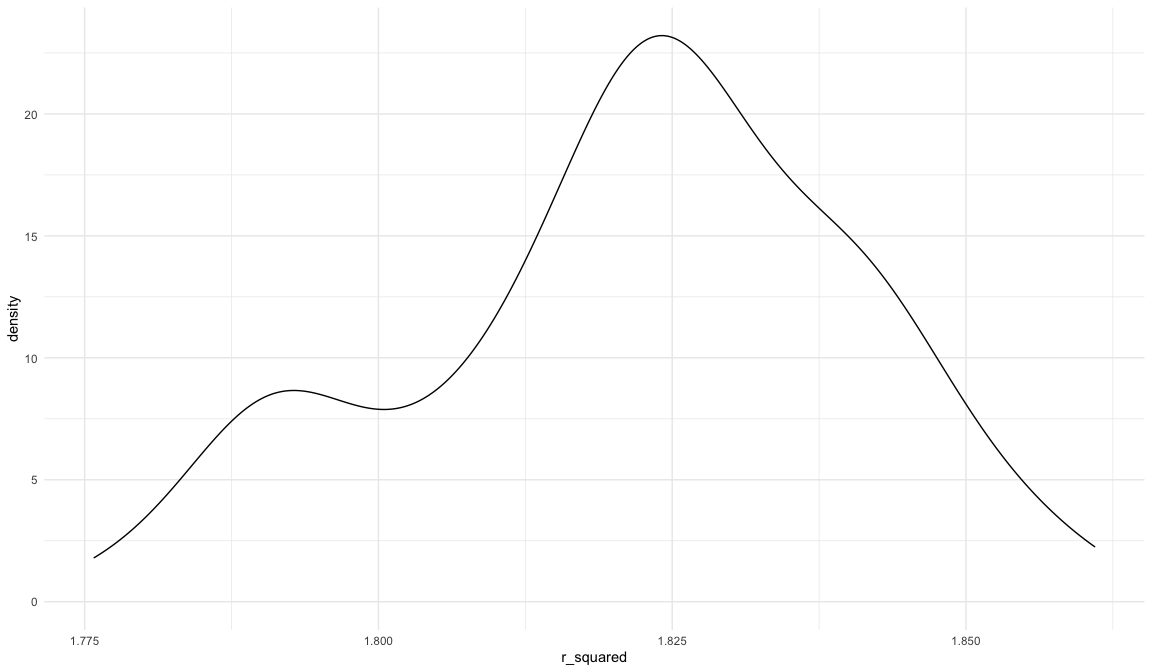
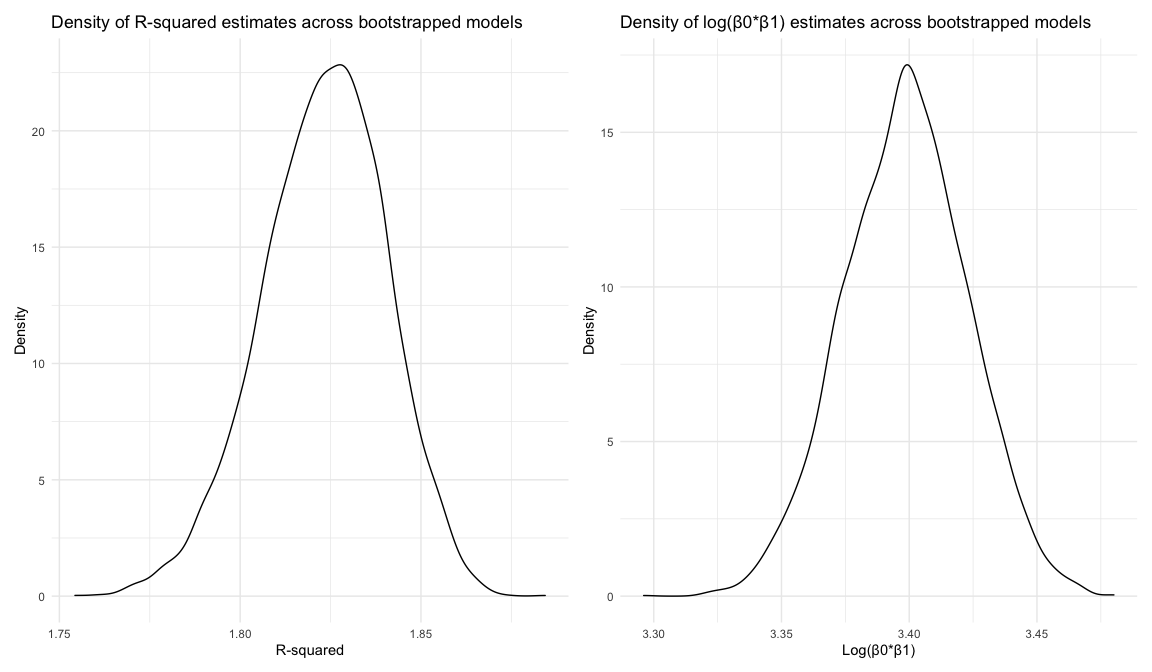
Part 1 completed

diff --git a/p8105_hw6_my2731.md b/p8105_hw6_my2731.md
@@ -26,7 +26,7 @@ and $log(\hat{\beta_0}*\hat{\beta_1})$
 
 ``` r
 weather_bootstrap = weather_df %>% 
-  modelr::bootstrap(n = 100) %>% 
+  modelr::bootstrap(n = 5000) %>% 
   mutate(
     models = map(strap, ~lm(tmax ~ tmin, data = .x)),
     results = map(models, broom::tidy), 
@@ -58,127 +58,43 @@ boot_summary = weather_bootstrap %>%
             cil_rsquared = quantile(r_squared, 0.025), 
             ciu_rsquared = quantile(r_squared, 0.975)) 
 
-boot_summary %>% knitr::kable(digits = 3)
+head(boot_summary) %>% knitr::kable(digits = 3)
 ```
 
-| .id | log_b0b1 | r_squared | cil_log_b0b1 | ciu_log_b0b1 | cil_rsquared | ciu_rsquared |
-|:----|---------:|----------:|-------------:|-------------:|-------------:|-------------:|
-| 001 |    3.438 |     1.791 |        3.438 |        3.438 |        1.791 |        1.791 |
-| 002 |    3.398 |     1.828 |        3.398 |        3.398 |        1.828 |        1.828 |
-| 003 |    3.438 |     1.792 |        3.438 |        3.438 |        1.792 |        1.792 |
-| 004 |    3.427 |     1.805 |        3.427 |        3.427 |        1.805 |        1.805 |
-| 005 |    3.375 |     1.818 |        3.375 |        3.375 |        1.818 |        1.818 |
-| 006 |    3.407 |     1.823 |        3.407 |        3.407 |        1.823 |        1.823 |
-| 007 |    3.409 |     1.811 |        3.409 |        3.409 |        1.811 |        1.811 |
-| 008 |    3.352 |     1.856 |        3.352 |        3.352 |        1.856 |        1.856 |
-| 009 |    3.436 |     1.820 |        3.436 |        3.436 |        1.820 |        1.820 |
-| 010 |    3.424 |     1.847 |        3.424 |        3.424 |        1.847 |        1.847 |
-| 011 |    3.406 |     1.820 |        3.406 |        3.406 |        1.820 |        1.820 |
-| 012 |    3.402 |     1.844 |        3.402 |        3.402 |        1.844 |        1.844 |
-| 013 |    3.465 |     1.787 |        3.465 |        3.465 |        1.787 |        1.787 |
-| 014 |    3.439 |     1.799 |        3.439 |        3.439 |        1.799 |        1.799 |
-| 015 |    3.420 |     1.790 |        3.420 |        3.420 |        1.790 |        1.790 |
-| 016 |    3.430 |     1.834 |        3.430 |        3.430 |        1.834 |        1.834 |
-| 017 |    3.419 |     1.834 |        3.419 |        3.419 |        1.834 |        1.834 |
-| 018 |    3.396 |     1.829 |        3.396 |        3.396 |        1.829 |        1.829 |
-| 019 |    3.416 |     1.822 |        3.416 |        3.416 |        1.822 |        1.822 |
-| 020 |    3.388 |     1.838 |        3.388 |        3.388 |        1.838 |        1.838 |
-| 021 |    3.397 |     1.832 |        3.397 |        3.397 |        1.832 |        1.832 |
-| 022 |    3.362 |     1.839 |        3.362 |        3.362 |        1.839 |        1.839 |
-| 023 |    3.397 |     1.840 |        3.397 |        3.397 |        1.840 |        1.840 |
-| 024 |    3.367 |     1.840 |        3.367 |        3.367 |        1.840 |        1.840 |
-| 025 |    3.387 |     1.821 |        3.387 |        3.387 |        1.821 |        1.821 |
-| 026 |    3.393 |     1.840 |        3.393 |        3.393 |        1.840 |        1.840 |
-| 027 |    3.442 |     1.830 |        3.442 |        3.442 |        1.830 |        1.830 |
-| 028 |    3.374 |     1.845 |        3.374 |        3.374 |        1.845 |        1.845 |
-| 029 |    3.437 |     1.782 |        3.437 |        3.437 |        1.782 |        1.782 |
-| 030 |    3.387 |     1.789 |        3.387 |        3.387 |        1.789 |        1.789 |
-| 031 |    3.432 |     1.823 |        3.432 |        3.432 |        1.823 |        1.823 |
-| 032 |    3.405 |     1.823 |        3.405 |        3.405 |        1.823 |        1.823 |
-| 033 |    3.425 |     1.816 |        3.425 |        3.425 |        1.816 |        1.816 |
-| 034 |    3.384 |     1.807 |        3.384 |        3.384 |        1.807 |        1.807 |
-| 035 |    3.375 |     1.817 |        3.375 |        3.375 |        1.817 |        1.817 |
-| 036 |    3.416 |     1.819 |        3.416 |        3.416 |        1.819 |        1.819 |
-| 037 |    3.396 |     1.826 |        3.396 |        3.396 |        1.826 |        1.826 |
-| 038 |    3.395 |     1.813 |        3.395 |        3.395 |        1.813 |        1.813 |
-| 039 |    3.434 |     1.789 |        3.434 |        3.434 |        1.789 |        1.789 |
-| 040 |    3.367 |     1.824 |        3.367 |        3.367 |        1.824 |        1.824 |
-| 041 |    3.373 |     1.832 |        3.373 |        3.373 |        1.832 |        1.832 |
-| 042 |    3.390 |     1.812 |        3.390 |        3.390 |        1.812 |        1.812 |
-| 043 |    3.415 |     1.829 |        3.415 |        3.415 |        1.829 |        1.829 |
-| 044 |    3.390 |     1.849 |        3.390 |        3.390 |        1.849 |        1.849 |
-| 045 |    3.398 |     1.840 |        3.398 |        3.398 |        1.840 |        1.840 |
-| 046 |    3.375 |     1.825 |        3.375 |        3.375 |        1.825 |        1.825 |
-| 047 |    3.350 |     1.861 |        3.350 |        3.350 |        1.861 |        1.861 |
-| 048 |    3.433 |     1.793 |        3.433 |        3.433 |        1.793 |        1.793 |
-| 049 |    3.392 |     1.823 |        3.392 |        3.392 |        1.823 |        1.823 |
-| 050 |    3.395 |     1.821 |        3.395 |        3.395 |        1.821 |        1.821 |
-| 051 |    3.366 |     1.830 |        3.366 |        3.366 |        1.830 |        1.830 |
-| 052 |    3.371 |     1.855 |        3.371 |        3.371 |        1.855 |        1.855 |
-| 053 |    3.412 |     1.828 |        3.412 |        3.412 |        1.828 |        1.828 |
-| 054 |    3.435 |     1.825 |        3.435 |        3.435 |        1.825 |        1.825 |
-| 055 |    3.408 |     1.819 |        3.408 |        3.408 |        1.819 |        1.819 |
-| 056 |    3.404 |     1.825 |        3.404 |        3.404 |        1.825 |        1.825 |
-| 057 |    3.426 |     1.812 |        3.426 |        3.426 |        1.812 |        1.812 |
-| 058 |    3.395 |     1.822 |        3.395 |        3.395 |        1.822 |        1.822 |
-| 059 |    3.410 |     1.830 |        3.410 |        3.410 |        1.830 |        1.830 |
-| 060 |    3.404 |     1.832 |        3.404 |        3.404 |        1.832 |        1.832 |
-| 061 |    3.392 |     1.831 |        3.392 |        3.392 |        1.831 |        1.831 |
-| 062 |    3.416 |     1.824 |        3.416 |        3.416 |        1.824 |        1.824 |
-| 063 |    3.410 |     1.807 |        3.410 |        3.410 |        1.807 |        1.807 |
-| 064 |    3.402 |     1.820 |        3.402 |        3.402 |        1.820 |        1.820 |
-| 065 |    3.423 |     1.840 |        3.423 |        3.423 |        1.840 |        1.840 |
-| 066 |    3.384 |     1.845 |        3.384 |        3.384 |        1.845 |        1.845 |
-| 067 |    3.433 |     1.814 |        3.433 |        3.433 |        1.814 |        1.814 |
-| 068 |    3.387 |     1.813 |        3.387 |        3.387 |        1.813 |        1.813 |
-| 069 |    3.390 |     1.829 |        3.390 |        3.390 |        1.829 |        1.829 |
-| 070 |    3.389 |     1.796 |        3.389 |        3.389 |        1.796 |        1.796 |
-| 071 |    3.384 |     1.841 |        3.384 |        3.384 |        1.841 |        1.841 |
-| 072 |    3.421 |     1.838 |        3.421 |        3.421 |        1.838 |        1.838 |
-| 073 |    3.367 |     1.842 |        3.367 |        3.367 |        1.842 |        1.842 |
-| 074 |    3.399 |     1.826 |        3.399 |        3.399 |        1.826 |        1.826 |
-| 075 |    3.398 |     1.791 |        3.398 |        3.398 |        1.791 |        1.791 |
-| 076 |    3.398 |     1.851 |        3.398 |        3.398 |        1.851 |        1.851 |
-| 077 |    3.404 |     1.783 |        3.404 |        3.404 |        1.783 |        1.783 |
-| 078 |    3.410 |     1.791 |        3.410 |        3.410 |        1.791 |        1.791 |
-| 079 |    3.371 |     1.776 |        3.371 |        3.371 |        1.776 |        1.776 |
-| 080 |    3.412 |     1.832 |        3.412 |        3.412 |        1.832 |        1.832 |
-| 081 |    3.419 |     1.824 |        3.419 |        3.419 |        1.824 |        1.824 |
-| 082 |    3.429 |     1.802 |        3.429 |        3.429 |        1.802 |        1.802 |
-| 083 |    3.416 |     1.835 |        3.416 |        3.416 |        1.835 |        1.835 |
-| 084 |    3.392 |     1.824 |        3.392 |        3.392 |        1.824 |        1.824 |
-| 085 |    3.364 |     1.811 |        3.364 |        3.364 |        1.811 |        1.811 |
-| 086 |    3.410 |     1.846 |        3.410 |        3.410 |        1.846 |        1.846 |
-| 087 |    3.389 |     1.822 |        3.389 |        3.389 |        1.822 |        1.822 |
-| 088 |    3.430 |     1.808 |        3.430 |        3.430 |        1.808 |        1.808 |
-| 089 |    3.407 |     1.798 |        3.407 |        3.407 |        1.798 |        1.798 |
-| 090 |    3.411 |     1.823 |        3.411 |        3.411 |        1.823 |        1.823 |
-| 091 |    3.396 |     1.841 |        3.396 |        3.396 |        1.841 |        1.841 |
-| 092 |    3.388 |     1.814 |        3.388 |        3.388 |        1.814 |        1.814 |
-| 093 |    3.420 |     1.793 |        3.420 |        3.420 |        1.793 |        1.793 |
-| 094 |    3.380 |     1.798 |        3.380 |        3.380 |        1.798 |        1.798 |
-| 095 |    3.382 |     1.803 |        3.382 |        3.382 |        1.803 |        1.803 |
-| 096 |    3.380 |     1.840 |        3.380 |        3.380 |        1.840 |        1.840 |
-| 097 |    3.400 |     1.825 |        3.400 |        3.400 |        1.825 |        1.825 |
-| 098 |    3.408 |     1.852 |        3.408 |        3.408 |        1.852 |        1.852 |
-| 099 |    3.352 |     1.847 |        3.352 |        3.352 |        1.847 |        1.847 |
-| 100 |    3.363 |     1.818 |        3.363 |        3.363 |        1.818 |        1.818 |
+| .id  | log_b0b1 | r_squared | cil_log_b0b1 | ciu_log_b0b1 | cil_rsquared | ciu_rsquared |
+|:-----|---------:|----------:|-------------:|-------------:|-------------:|-------------:|
+| 0001 |    3.335 |     1.840 |        3.335 |        3.335 |        1.840 |        1.840 |
+| 0002 |    3.438 |     1.825 |        3.438 |        3.438 |        1.825 |        1.825 |
+| 0003 |    3.410 |     1.818 |        3.410 |        3.410 |        1.818 |        1.818 |
+| 0004 |    3.425 |     1.817 |        3.425 |        3.425 |        1.817 |        1.817 |
+| 0005 |    3.424 |     1.831 |        3.424 |        3.424 |        1.831 |        1.831 |
+| 0006 |    3.423 |     1.813 |        3.423 |        3.423 |        1.813 |        1.813 |
 
 Let’s plot these estimates:
 
 ``` r
-boot_summary %>% 
-  ggplot(aes(x = r_squared)) + geom_density() 
+r_sq_p = boot_summary %>% 
+  ggplot(aes(x = r_squared)) + geom_density() + 
+  labs(
+    x = "R-squared",
+    y = "Density",
+    title = "Density of R-squared estimates across bootstrapped models")
+
+log_b_p = boot_summary %>% 
+  ggplot(aes(x = log_b0b1)) + geom_density() + 
+  labs(
+    x = "Log(β0*β1)",
+    y = "Density",
+    title = "Density of log(β0*β1) estimates across bootstrapped models")
+
+r_sq_p + log_b_p
 ```
 
 ![](p8105_hw6_my2731_files/figure-gfm/unnamed-chunk-3-1.png)<!-- -->
 
-``` r
-boot_summary %>% 
-  ggplot(aes(x = log_b0b1)) + geom_density()
-```
-
-![](p8105_hw6_my2731_files/figure-gfm/unnamed-chunk-3-2.png)<!-- -->
+The above plots show that the distribution of $\hat{r}^2$ estimates are
+highest around 1.82, while the highest distribution of
+$log(\hat{\beta_0}*\hat{\beta_1})$ sits around 3.40.
 
 ## Part 2: Washington Post Homicide Data
 
@@ -190,6 +106,7 @@ cities. Let’s load the raw homicide data and inspect it.
 ``` r
 homicide_data = read_csv("data/homicide-data.csv") %>% 
   janitor::clean_names()
+
 homicide_data
 ```
 
